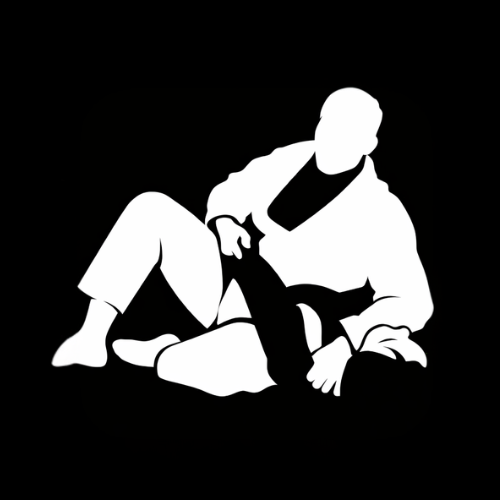
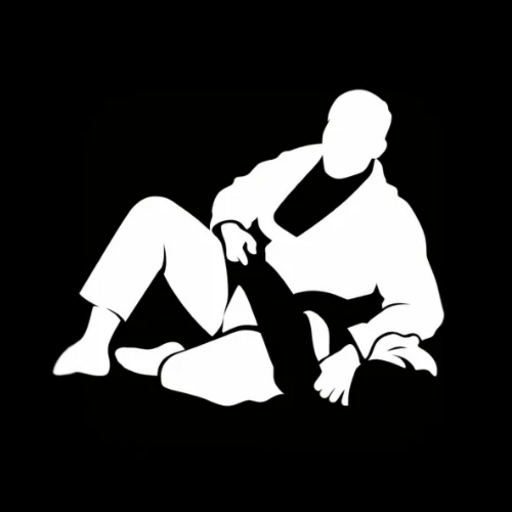
BJJシルエット画像をロゴとfaviconに設定
- ランディングページのヘッダー/フッターロゴを画像に変更
- bjj-logo.png、favicon.ico、PWAアイコン（192/512px）を更新
- SVGアイコンから柔術シルエット画像に置き換え

🤖 Generated with [Claude Code](https://claude.com/claude-code)

diff --git a/src/app/page.tsx b/src/app/page.tsx
@@ -1,6 +1,7 @@
 'use client';
 
 import Link from 'next/link';
+import Image from 'next/image';
 import { useState, useEffect } from 'react';
 
 export default function LandingPage() {
@@ -1221,11 +1222,13 @@ export default function LandingPage() {
         <nav className="lp-nav">
           <a href="#" className="lp-logo">
             <div className="lp-logo-icon">
-              <svg viewBox="0 0 24 24">
-                <path d="M12 2L2 7l10 5 10-5-10-5z"></path>
-                <path d="M2 17l10 5 10-5"></path>
-                <path d="M2 12l10 5 10-5"></path>
-              </svg>
+              <Image
+                src="/bjj-logo.png"
+                alt="BJJ Hub Logo"
+                width={40}
+                height={40}
+                className="object-contain"
+              />
             </div>
             <span className="lp-logo-text">BJJ HUB</span>
           </a>
@@ -1490,11 +1493,13 @@ export default function LandingPage() {
           <div className="lp-footer-brand">
             <a href="#" className="lp-logo">
               <div className="lp-logo-icon">
-                <svg viewBox="0 0 24 24">
-                  <path d="M12 2L2 7l10 5 10-5-10-5z"></path>
-                  <path d="M2 17l10 5 10-5"></path>
-                  <path d="M2 12l10 5 10-5"></path>
-                </svg>
+                <Image
+                  src="/bjj-logo.png"
+                  alt="BJJ Hub Logo"
+                  width={40}
+                  height={40}
+                  className="object-contain"
+                />
               </div>
               <span className="lp-logo-text">BJJ HUB</span>
             </a>
